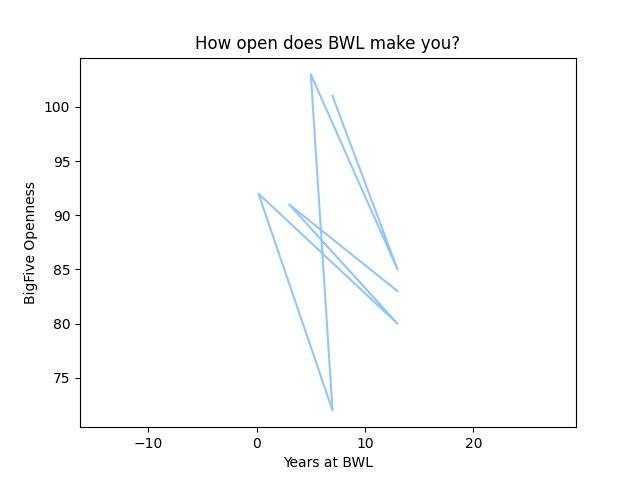
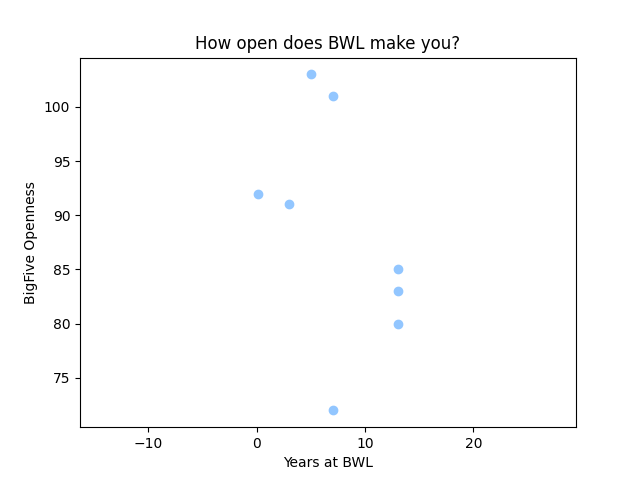
birt

Changed region(s): [[0.4062, 0.125, 0.625, 0.875], [0.4375, 0.5312, 0.4688, 0.6562], [0.5625, 0.375, 0.5938, 0.4688]]

diff --git a/main.py b/main.py
@@ -19,27 +19,27 @@ plt.xlabel('Birth Year')
 plt.ylabel('Birth Day')
 plt.axis('equal')
 
-plt.savefig('scatter.png')
+plt.savefig('birt.png')
 plt.close()
 
 Jewish = df['Jewish']
 Flavor = df['Flavor']
 
-plt.bar(Jewish, Flavor)
+plt.scatter(Jewish, Flavor)
 
 plt.title('Jewish VS Flavor')
 plt.xlabel('Jewish')
 plt.ylabel('Flavor')
 plt.axis('equal')
 
-plt.savefig('bar.png')
+plt.savefig('scatter.png')
 plt.close()
 
 
 Years_At_BWL = df['Years at BWL']
 B5_Openness = df['BigFive Openness']
 
-plt.plot(Years_At_BWL, B5_Openness)
+plt.scatter(Years_At_BWL, B5_Openness)
 plt.title('How open does BWL make you?')
 plt.xlabel('Years at BWL')
 plt.ylabel('BigFive Openness')
